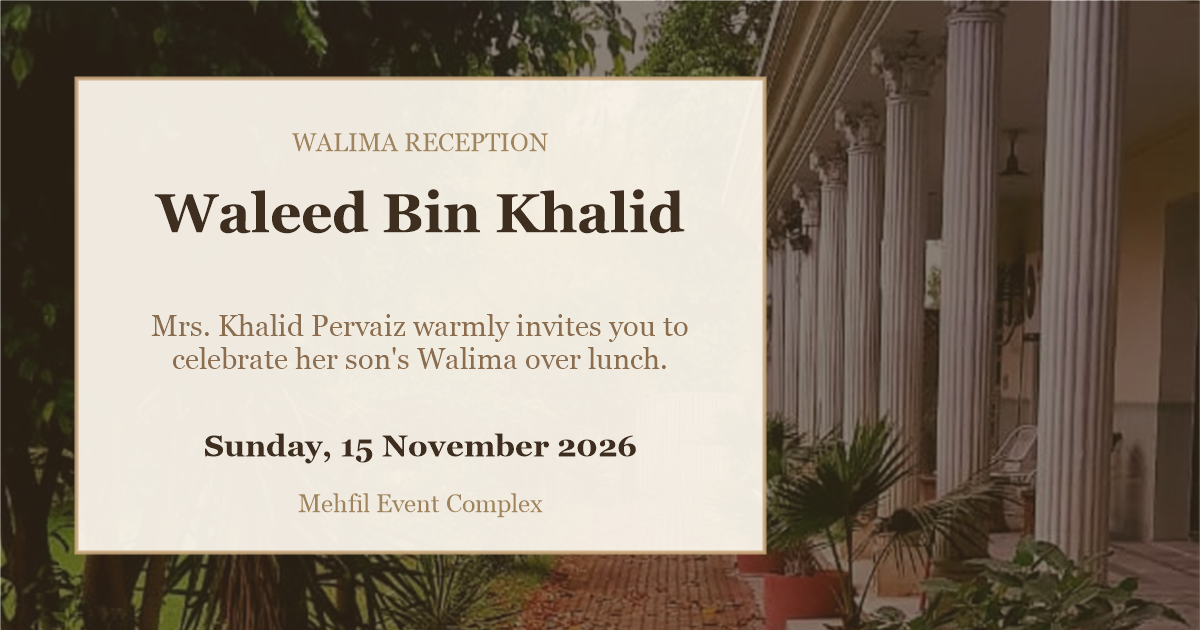
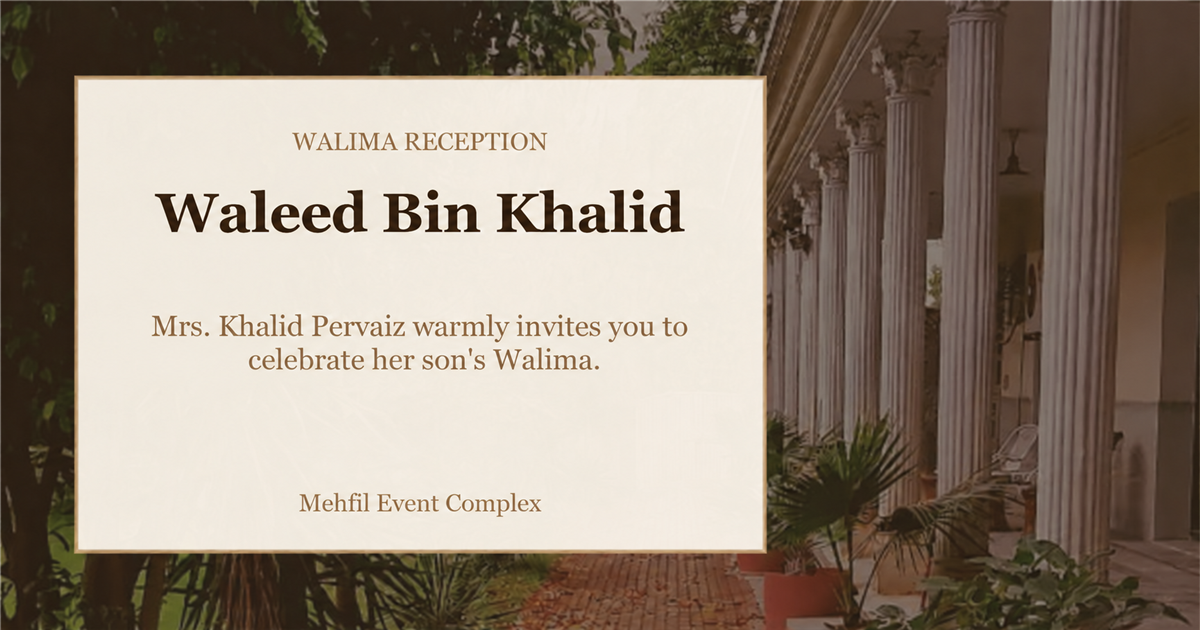
updates

diff --git a/index.html b/index.html
@@ -7,15 +7,17 @@
       <title>Waleed Bin Khalid | Walima Reception</title>
       <meta
         name="description"
-        content="Mrs. Khalid Pervaiz warmly invites you to celebrate her son's Walima over lunch on Sunday, 15 November 2026 at Mehfil Event Complex."
+        content="Mrs. Khalid Pervaiz warmly invites you to celebrate her son's Walima at Mehfil Event Complex."
       />
+      <meta property="og:url" content="https://waleed-walima-invitation.netlify.app/" />
       <meta property="og:type" content="website" />
       <meta property="og:title" content="Waleed Bin Khalid | Walima Reception" />
       <meta
         property="og:description"
-        content="Join us for Waleed Bin Khalid's Walima lunch on Sunday, 15 November 2026 at Mehfil Event Complex."
+        content="Join us for Waleed Bin Khalid's Walima reception at Mehfil Event Complex."
       />
-      <meta property="og:image" content="/social-preview.png" />
+      <meta property="og:image" content="https://waleed-walima-invitation.netlify.app/social-preview.png" />
+      <meta property="og:image:secure_url" content="https://waleed-walima-invitation.netlify.app/social-preview.png" />
       <meta property="og:image:type" content="image/png" />
       <meta property="og:image:width" content="1200" />
       <meta property="og:image:height" content="630" />
@@ -24,9 +26,9 @@
       <meta name="twitter:title" content="Waleed Bin Khalid | Walima Reception" />
       <meta
         name="twitter:description"
-        content="Join us for Waleed Bin Khalid's Walima lunch on Sunday, 15 November 2026 at Mehfil Event Complex."
+        content="Join us for Waleed Bin Khalid's Walima reception at Mehfil Event Complex."
       />
-      <meta name="twitter:image" content="/social-preview.png" />
+      <meta name="twitter:image" content="https://waleed-walima-invitation.netlify.app/social-preview.png" />
     </head>
 
     <body>

diff --git a/src/app/components/WalimaOpening.css b/src/app/components/WalimaOpening.css
@@ -34,7 +34,6 @@
   content: ""; position: absolute; inset: 0;
   background: linear-gradient(148deg, transparent 49.6%, #aa906047 49.8%, #fff6 50.1%, transparent 50.4%);
 }
-.royal-envelope__monogram { position: absolute; bottom: 17px; left: 0; right: 0; text-align: center; font-family: "Great Vibes", cursive; color: #a2864f; font-size: 24px; text-shadow: 0 1px 0 #fff9; }
 .royal-envelope__floral { position: absolute; width: 112px; height: 70px; bottom: 17px; color: #ab8b4a; opacity: .6; filter: drop-shadow(0 1px 0 #fff9); }
 .royal-envelope__floral--left { left: 17px; transform: rotate(-28deg); }
 .royal-envelope__floral--right { right: 17px; transform: rotate(28deg); }
@@ -68,7 +67,6 @@
 .royal-card__title { font-family: "Playfair Display", serif; font-size: 23px; padding-top: 7px; }
 .royal-card__name { font-size: 18px; padding-top: 6px; }
 .royal-card__rule { width: 38px; height: 1px; background: #b99957; margin: 8px 0; }
-.royal-card__date { font-size: 12px; }
 .royal-intro__hint { position: relative; z-index: 4; margin: 4px 0 0; color: #7c634c; font-size: 19px; text-align: center; text-shadow: 0 1px 0 #fff8; }
 
 .royal-particles { position: absolute; inset: 0; pointer-events: none; overflow: hidden; }
@@ -95,7 +93,6 @@
   .royal-card__title { font-size: 18px; padding-top: 4px; }
   .royal-card__name { font-size: 15px; }
   .royal-card__eyebrow { font-size: 12px; }
-  .royal-card__date { font-size: 11px; }
   .royal-card__rule { margin: 5px 0; }
   .royal-seal { width: 56px; height: 56px; left: calc(50% - 28px); top: calc(51% - 23px); }
   .royal-seal span:first-child { font-size: 29px; }

diff --git a/src/app/components/Envelope.tsx b/src/app/components/Envelope.tsx
@@ -89,13 +89,11 @@ function LuxuryEnvelope({ stage, onOpen, disabled }: { stage: IntroStage; onOpen
             <p className="royal-card__title">Walima Reception</p>
             <p className="royal-card__name">Waleed Bin Khalid</p>
             <div className="royal-card__rule" />
-            <p className="royal-card__date">15 November 2026</p>
           </div>
         </motion.div>
         <div className="royal-envelope__front">
           <FloralOrnament className="royal-envelope__floral royal-envelope__floral--left" />
           <FloralOrnament className="royal-envelope__floral royal-envelope__floral--right" />
-          <div className="royal-envelope__monogram">W</div>
         </div>
         <motion.div
           ref={flapRef}

diff --git a/src/app/components/HeroSection.tsx b/src/app/components/HeroSection.tsx
@@ -133,7 +133,6 @@ export function HeroSection({ revealed = true }: { revealed?: boolean }) {
             }}
           >
             Mrs. Khalid Pervaiz warmly invites you to celebrate her son's Walima
-            over lunch
           </p>
           <motion.div
             className="invitation-hero__date inline-block rounded-full"
@@ -173,7 +172,7 @@ export function HeroSection({ revealed = true }: { revealed?: boolean }) {
             fontSize: "1.15rem",
           }}
         >
-          Walima Lunch · Mehfil Event Complex
+          Walima Reception · Mehfil Event Complex
         </motion.p>
 
         {/* Scroll indicator */}

diff --git a/src/app/components/InvitationMessage.tsx b/src/app/components/InvitationMessage.tsx
@@ -28,7 +28,7 @@ export function InvitationMessage() {
         >
           Mrs. Khalid Pervaiz and family warmly invite you to the Walima of her
           beloved son, Waleed Bin Khalid on Sunday, 15 November 2026, at Mehfil
-          Event Complex. Please join us for lunch and bless this occasion with
+          Event Complex. Please join us and bless this occasion with
           your presence and prayers.
         </p>
 

diff --git a/src/app/components/EventSchedule.tsx b/src/app/components/EventSchedule.tsx
@@ -11,9 +11,9 @@ const events = [
     icon: CalendarDays,
   },
   {
-    time: "Lunch",
-    title: "Walima Lunch",
-    description: "Join Waleed Bin Khalid and family for a celebratory lunch",
+    time: "Lunch time",
+    title: "2 PM",
+    description: "Join Waleed Bin Khalid and family for the Walima reception",
     icon: Utensils,
   },
   {

diff --git a/src/app/components/LocationSection.tsx b/src/app/components/LocationSection.tsx
@@ -75,7 +75,7 @@ export function LocationSection() {
             }}
             className="mb-8"
           >
-            We look forward to welcoming you for Walima lunch.
+            We look forward to welcoming you for the Walima reception.
             Join us at Mehfil Event Complex.
           </p>
 

diff --git a/src/app/components/CountdownTimer.tsx b/src/app/components/CountdownTimer.tsx
@@ -152,7 +152,7 @@ export function CountdownTimer() {
           }}
           className="mb-12"
         >
-          Sunday, 15 November 2026 | Lunch
+          Sunday, 15 November 2026
         </p>
 
         <div className="flex justify-center gap-3 sm:gap-6">

diff --git a/src/app/components/Footer.tsx b/src/app/components/Footer.tsx
@@ -85,7 +85,7 @@ export function Footer() {
             fontStyle: "italic",
           }}
         >
-          Walima Celebration | Lunch
+          Walima Celebration
         </p>
       </motion.div>
     </footer>
